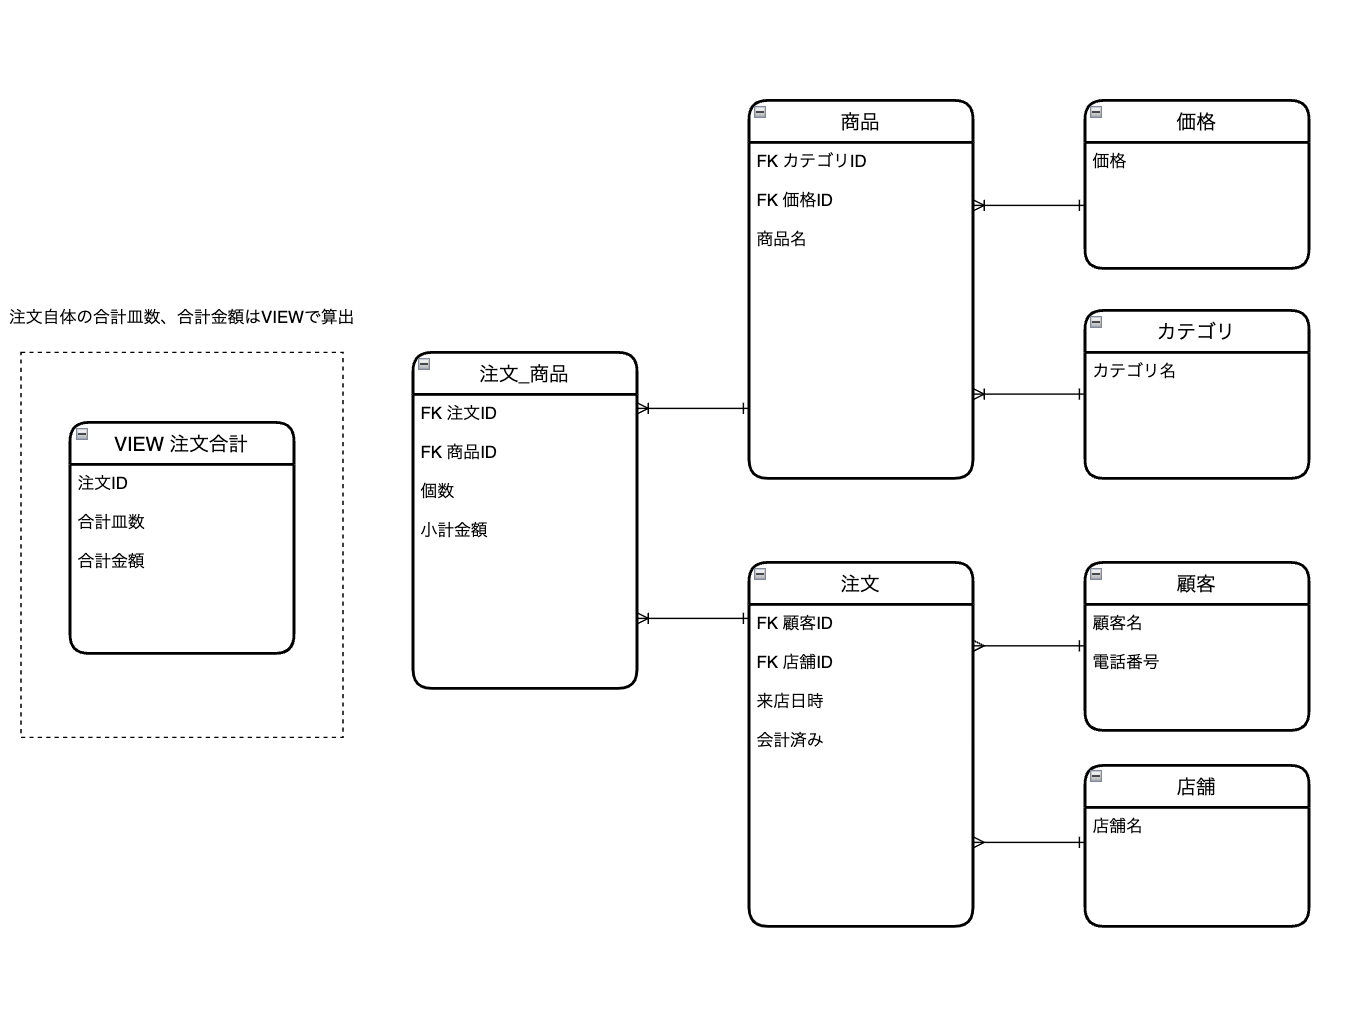
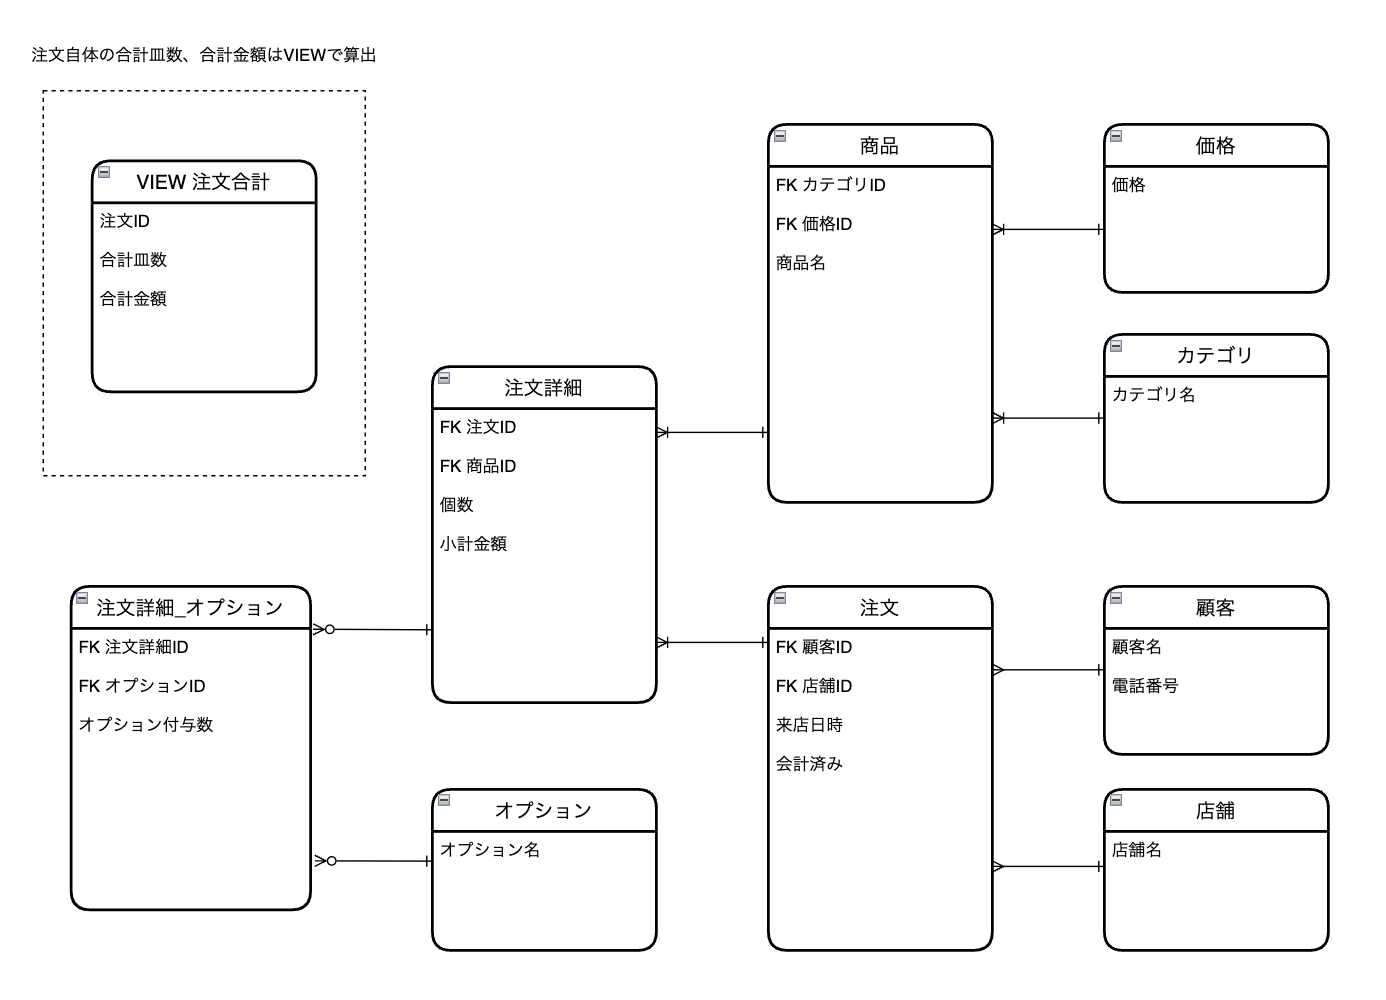
課題１修正、新規テーブル追記

diff --git a/db_modeling1/subject1/db_modeling1.md b/db_modeling1/subject1/db_modeling1.md
@@ -20,10 +20,14 @@
 |             | FK 店舗ID      |  |
 |             | 来店日時     | 2023-12-30 |
 |             | 会計済み     | true<br>false<br> |
-| 注文_商品    | FK 注文ID      | |
-|             | FK 商品ID      ||
+| 注文詳細    | FK 注文ID      | |
+|             | FK 商品ID      | |
 |             | 個数        | 2<br>4<br> |
 |             | 小計金額(円)     | 1000<br>2500<br> |
+| オプション    | オプション名      | ワサビぬき |
+| 注文詳細_オプション | FK 注文詳細ID      | |
+|             | FK オプションID      | |
+|             | オプション付与数<br>※注文詳細の個数（皿数）の内⚪皿分へのオプション付与数| 5<br>8<br> |
 | 注文合計（VIEW） | 注文ID      | |
 |             | 合計皿数     | 10<br>20<br> |
 |             | 合計金額(円)     | 5000<br>7000<br> |
